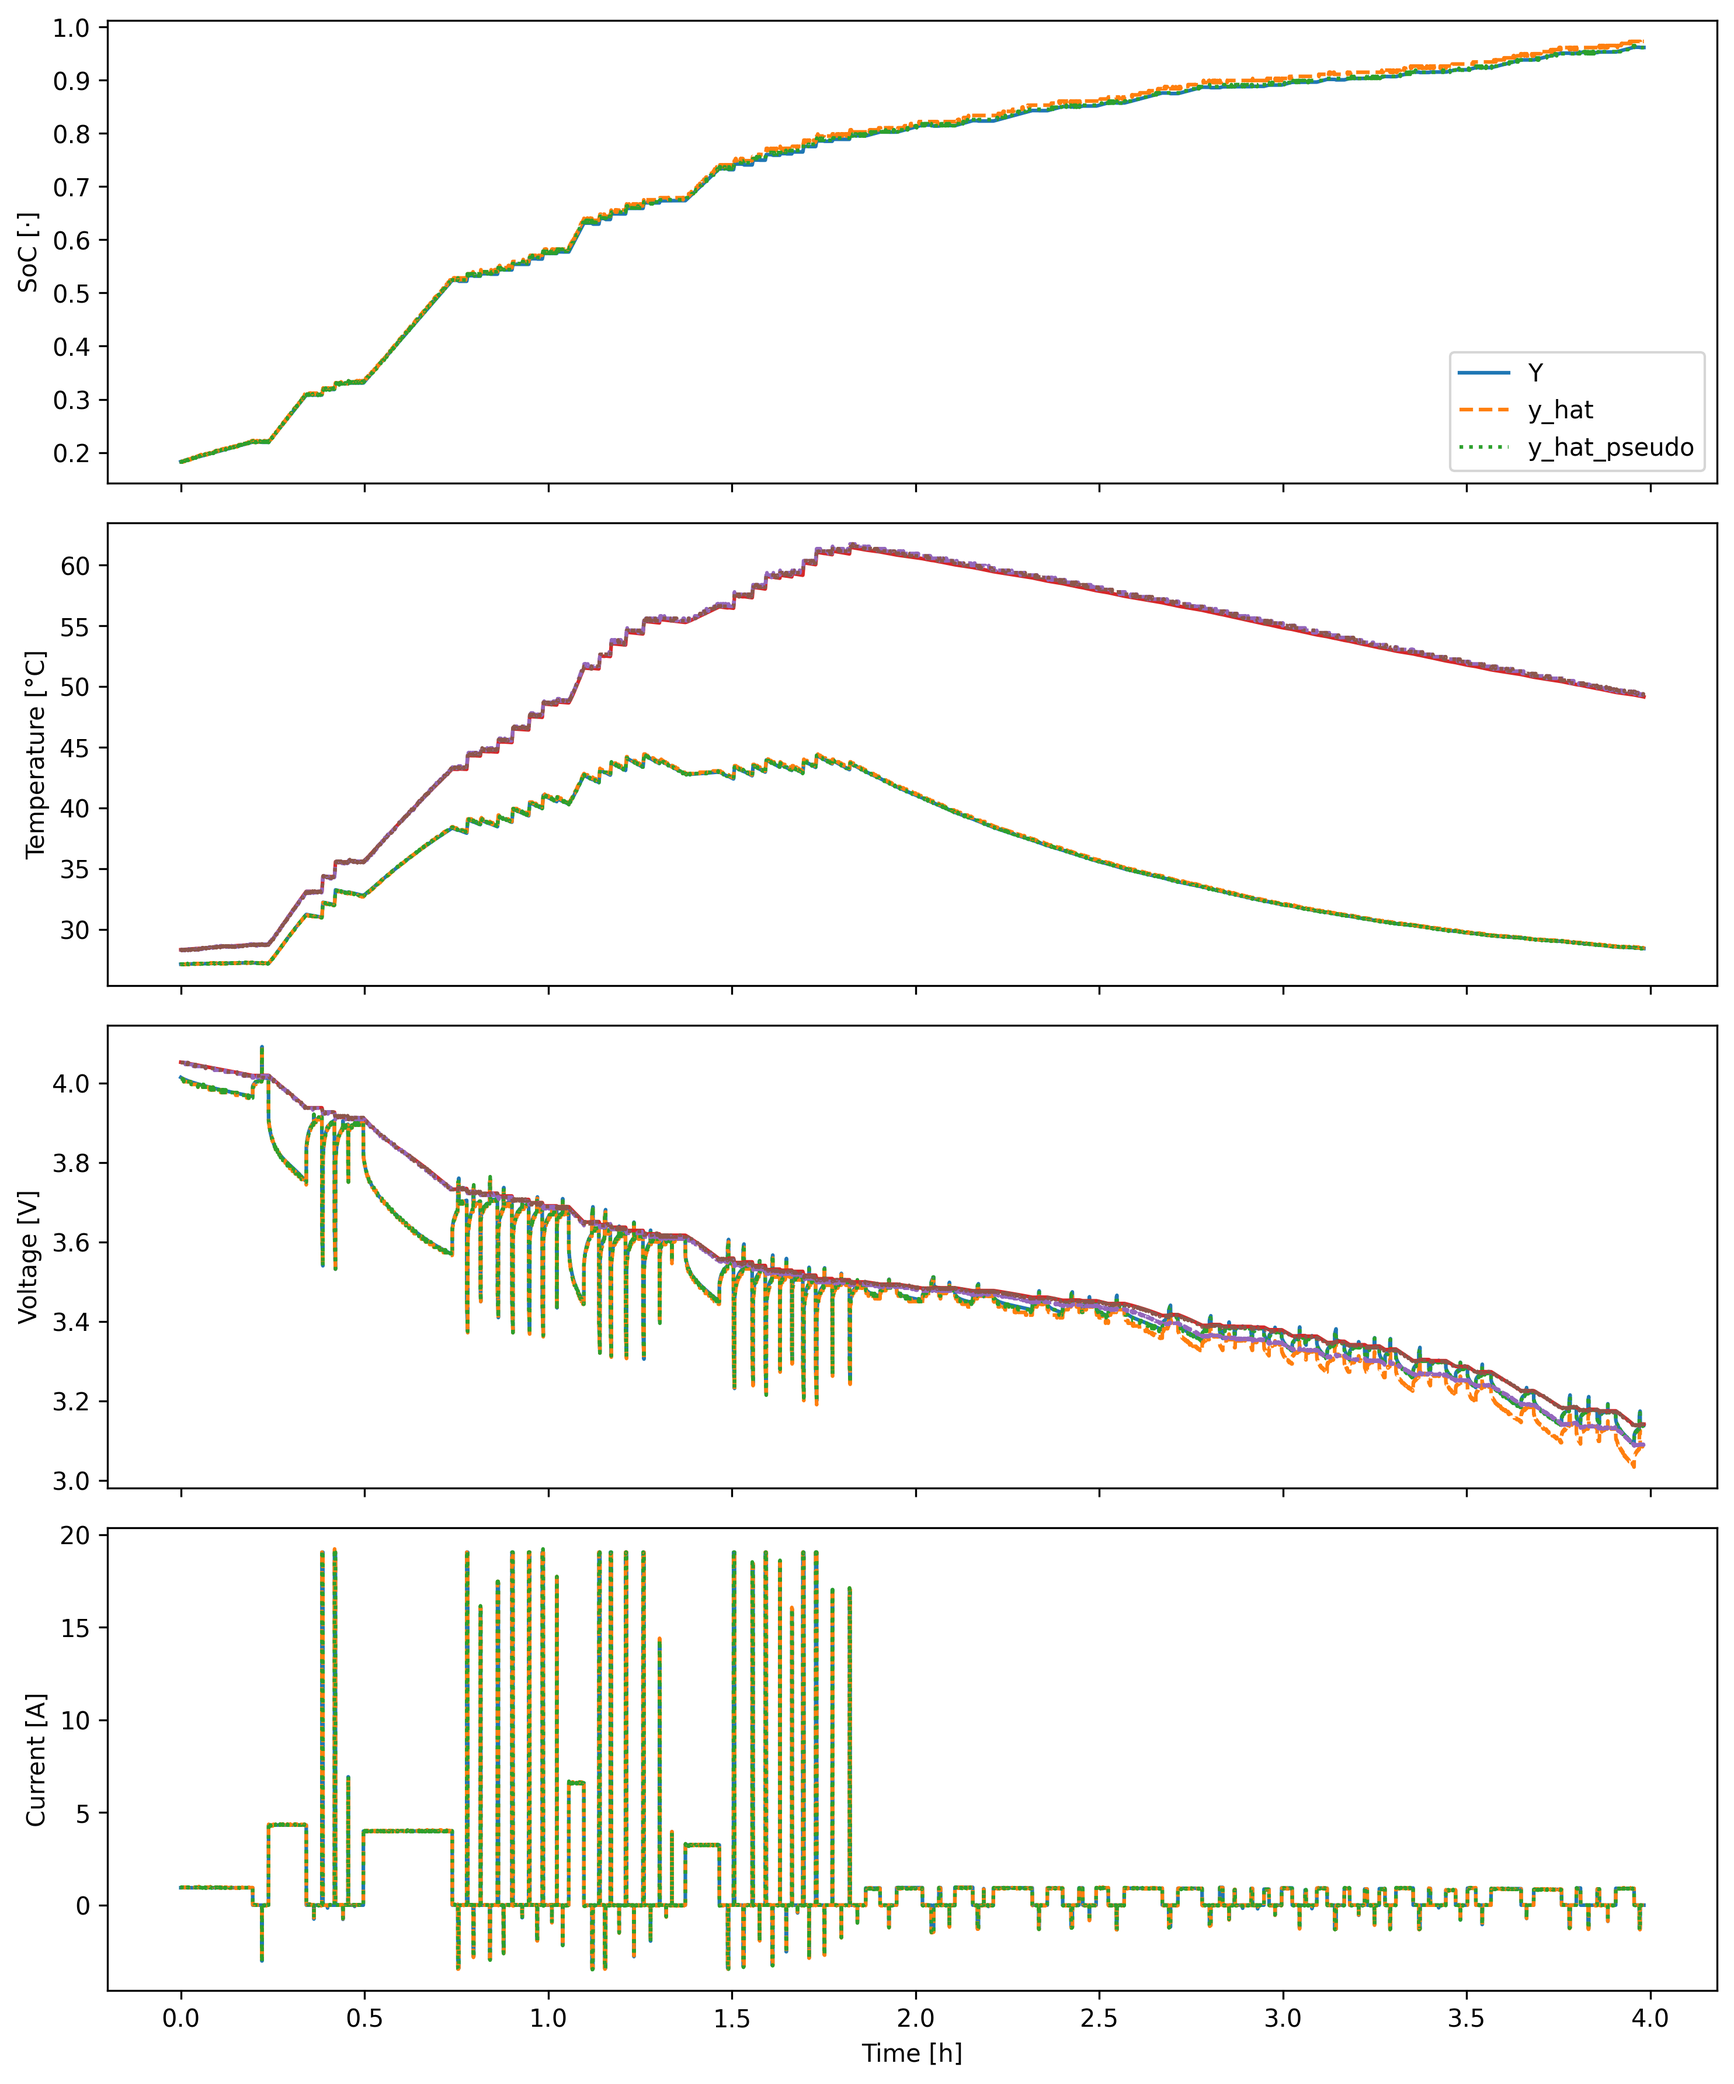
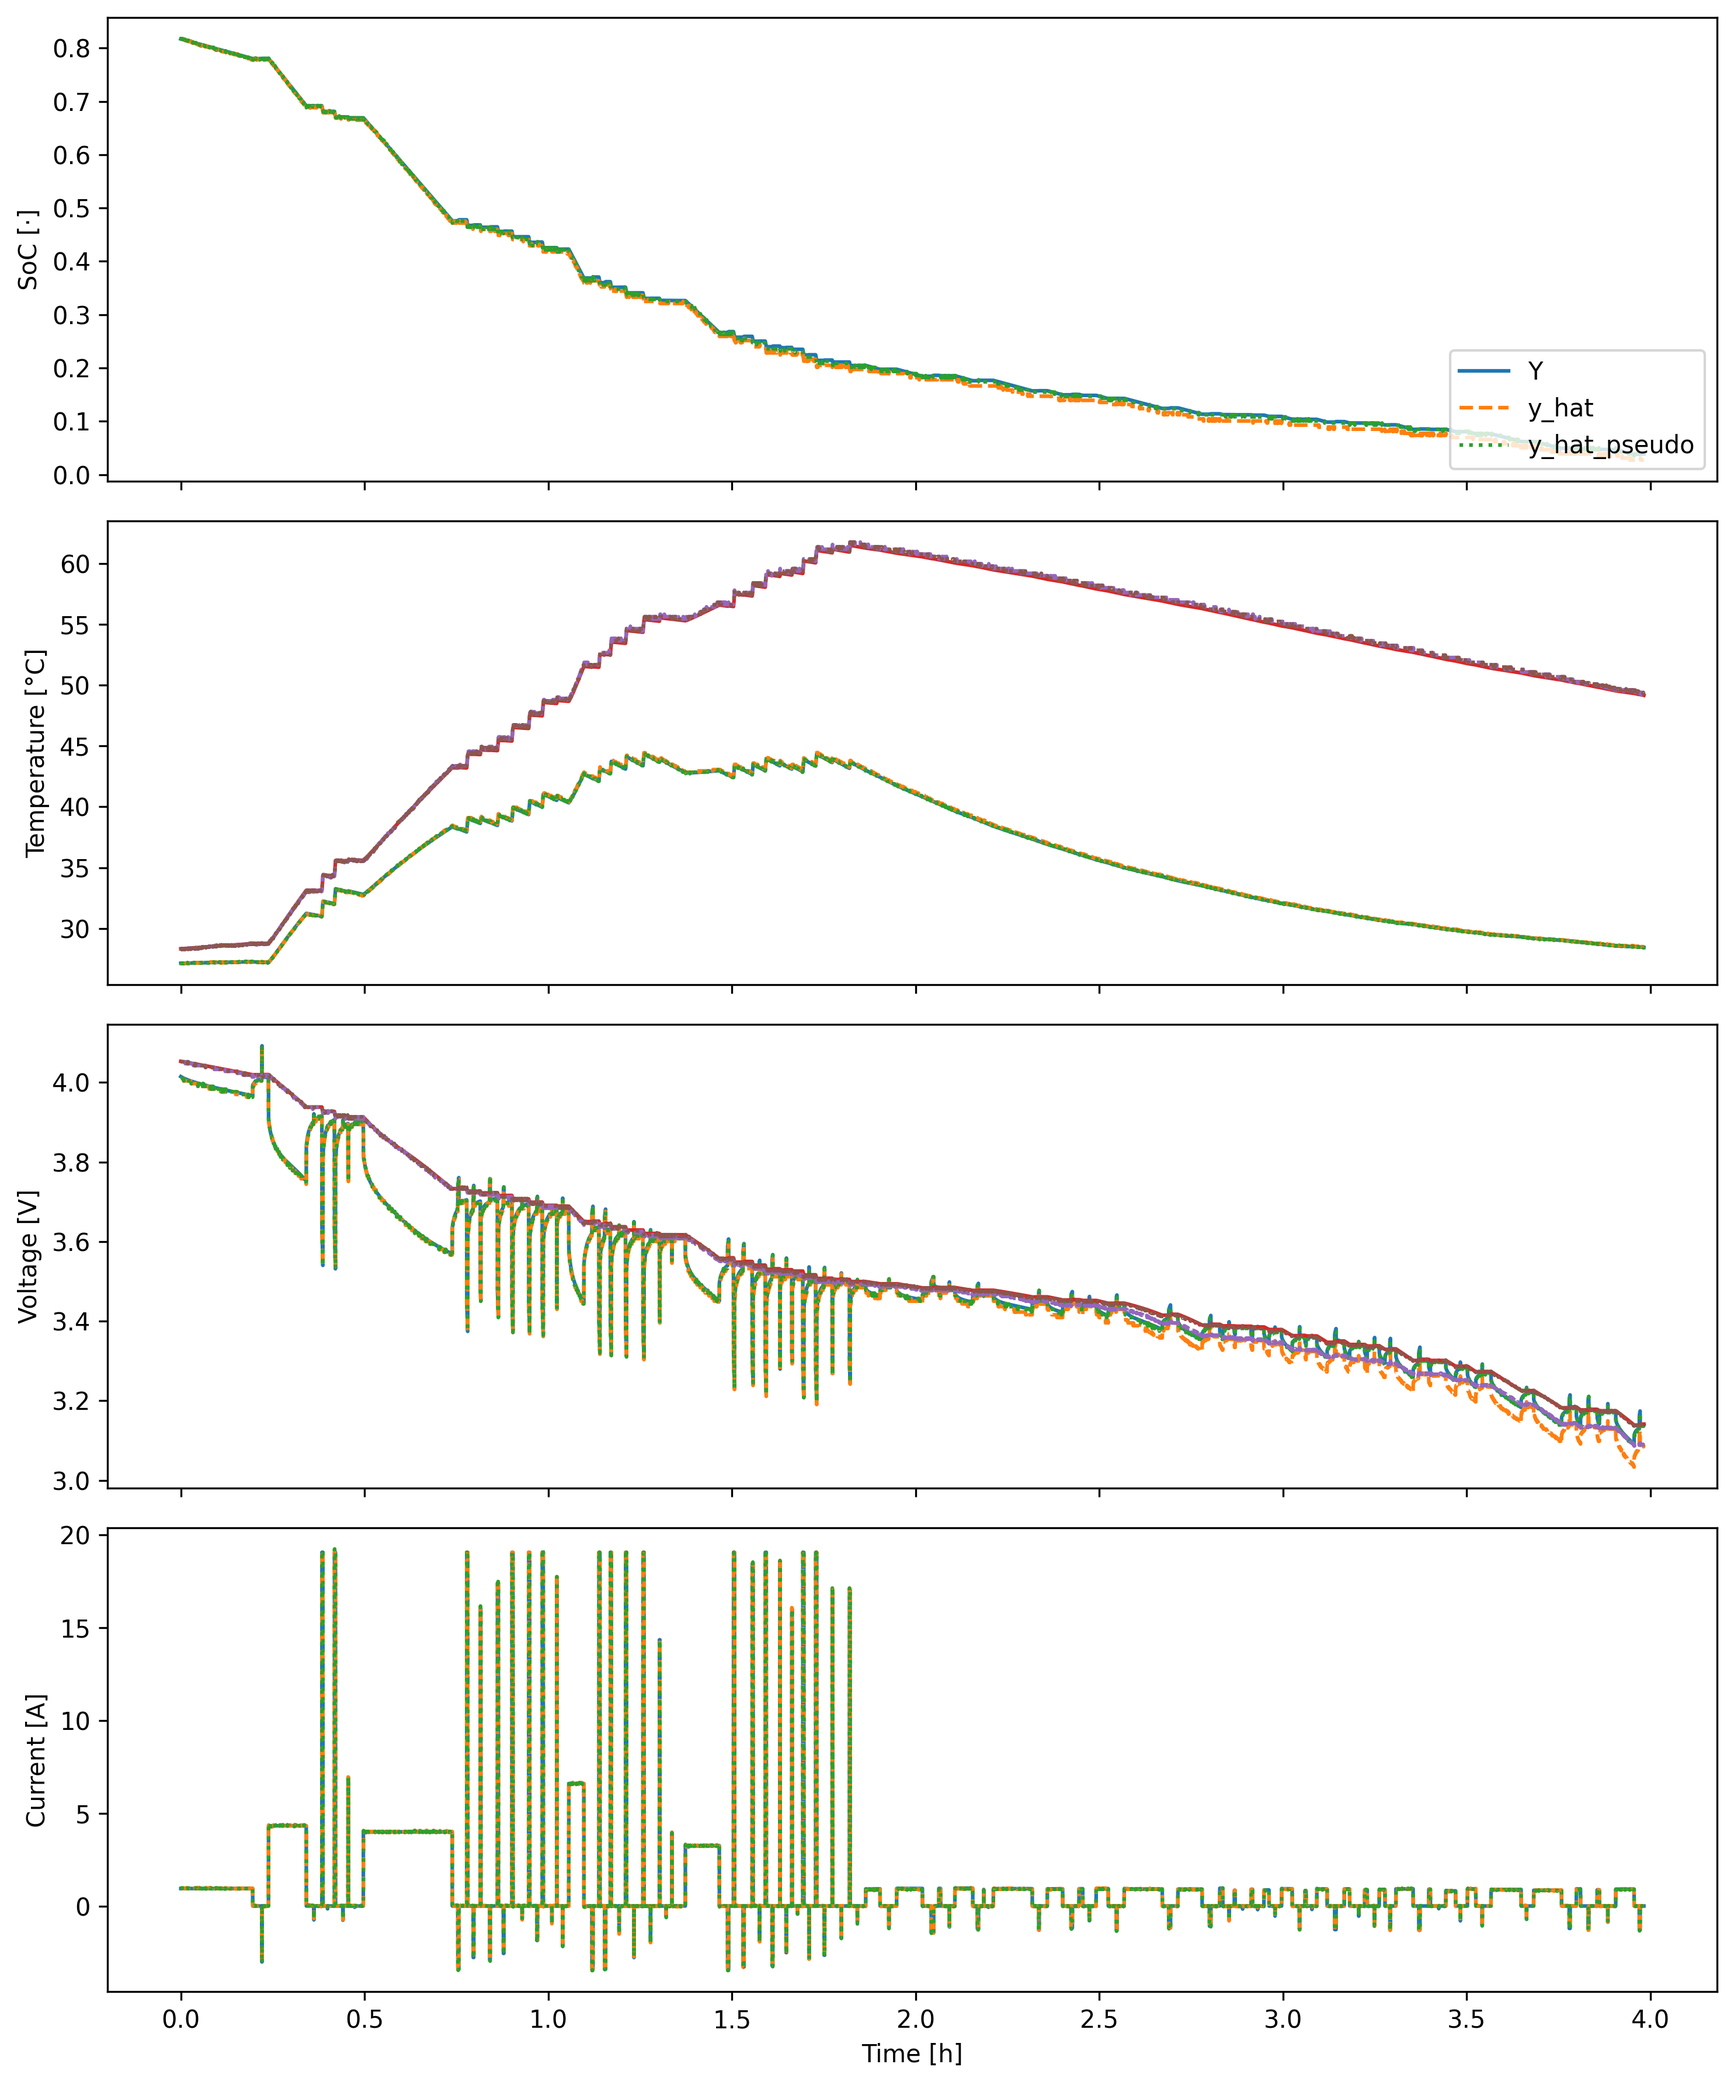
bugfix output image

diff --git a/README.md b/README.md
@@ -142,7 +142,9 @@ means using only the current as an external sample source, with other
 parameters predicted auto-regressively. Both models perform impressively
 with little drift over time and a small size of around 16M parameters.
 Surface and core temperature share the same plot as well as terminal
-voltage and OCV. ![outputs](./doc/outputs.png)
+voltage and OCV. The SoC ground truth is based on Coulomb Counting and
+only a rough approximation to show the functionality, similar approach
+for the core temperature. ![outputs](./doc/outputs.png)
 
 This approach supports arbitrary parameter mapping efficiently and
 enables meta capabilities as shown in different domains.
